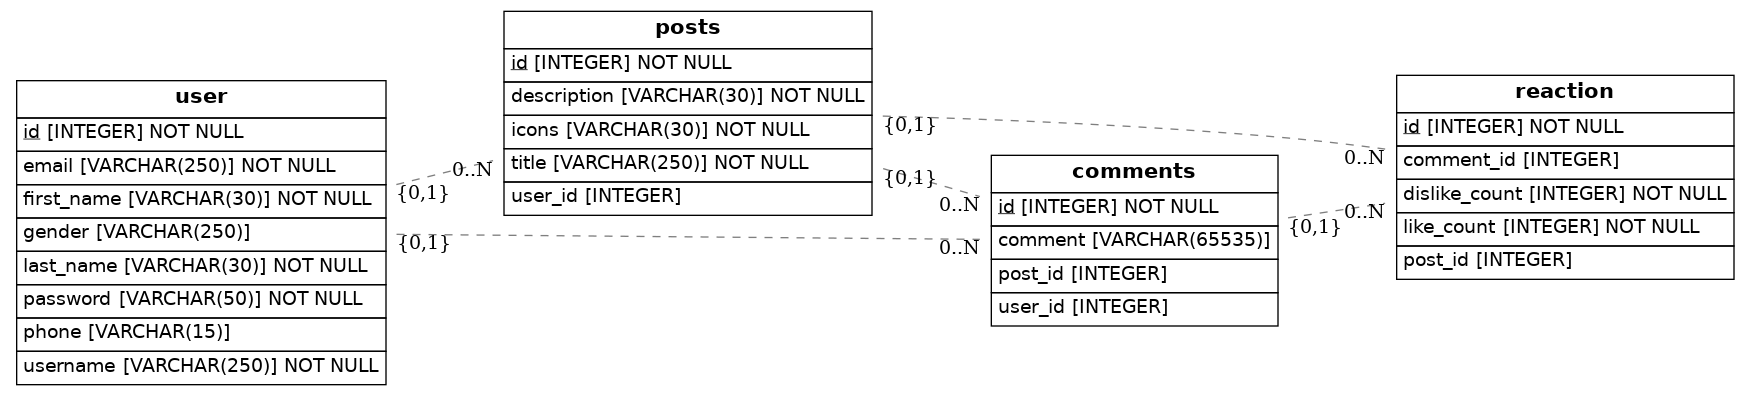
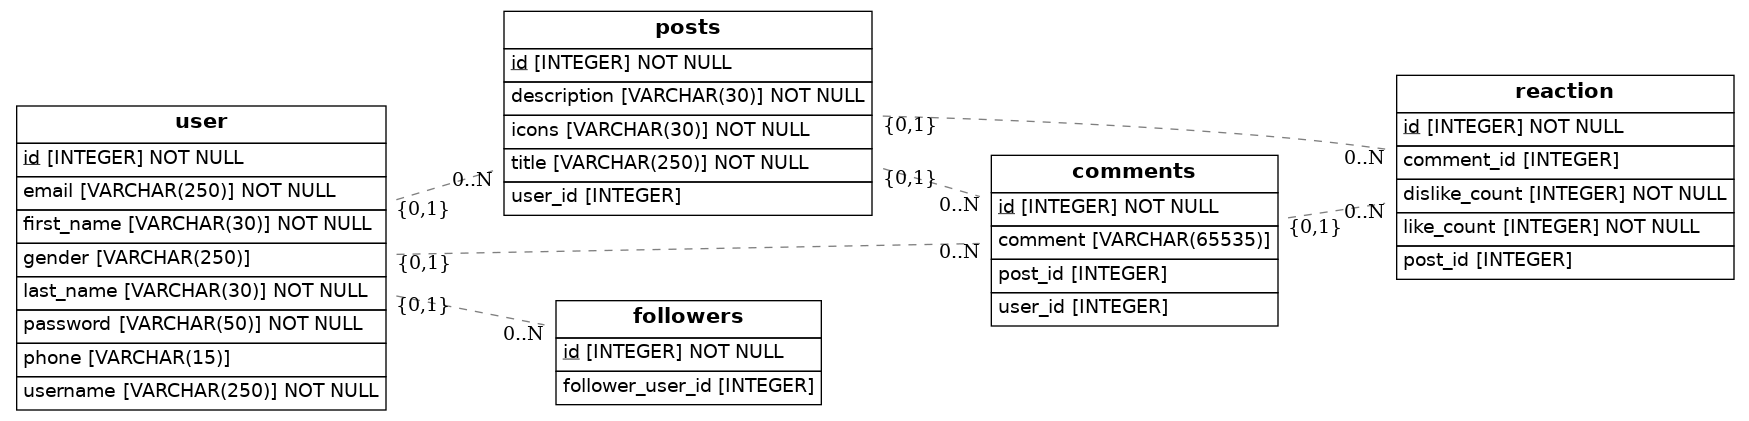
Did the thingie

diff --git a/src/models.py b/src/models.py
@@ -20,6 +20,9 @@ class User(Base):
     phone = Column(String(15))
     gender = Column(String(250))
 
+    def __repr__(self):
+        return '<User %r>' % self.username
+
 class Post(Base):
     __tablename__ = 'posts'
     # Here we define columns for the table posts
@@ -30,6 +33,9 @@ class Post(Base):
     icons = Column(String(30), nullable=False)
     user_id = Column(Integer, ForeignKey('user.id'))
     user = relationship(User)
+
+    def __repr__(self):
+        return '<Post %r>' % self.title
 
 
 class Comment(Base):
@@ -43,6 +49,9 @@ class Comment(Base):
     user = relationship(User)
     post = relationship(Post)
 
+    def __repr__(self):
+        return '<Comment %r>' % self.comment
+
 
 class Reaction(Base):
     __tablename__ = 'reaction'
@@ -55,6 +64,21 @@ class Reaction(Base):
     comment_id = Column(Integer, ForeignKey('comments.id'))
     post = relationship(Post)
     comment = relationship(Comment)
+
+    def __repr__(self):
+        return '<Reaction %r>' % self.id
+
+
+class Follower(Base):
+    __tablename__ = 'followers'
+    # Here we define columns for the table [ . . . ]
+    # Notice that each column is also a normal Python instance attribute.
+    id = Column(Integer, primary_key=True)
+    follower_user_id = Column(Integer, ForeignKey('user.id'))
+    follower = relationship(User)
+
+    def __repr__(self):
+        return '<Follower %r>' % self.id
 
 
 #class Address(Base):
